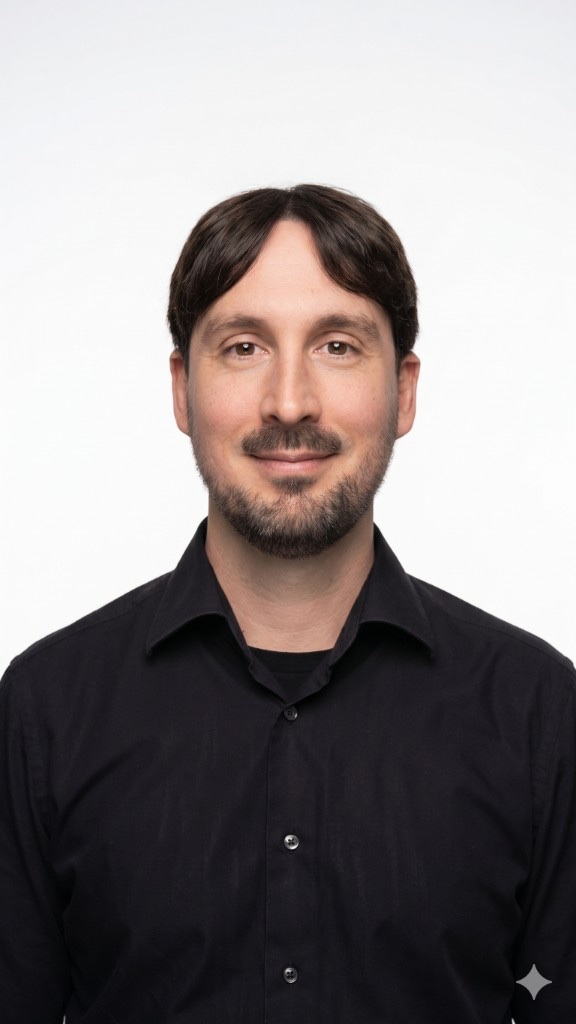
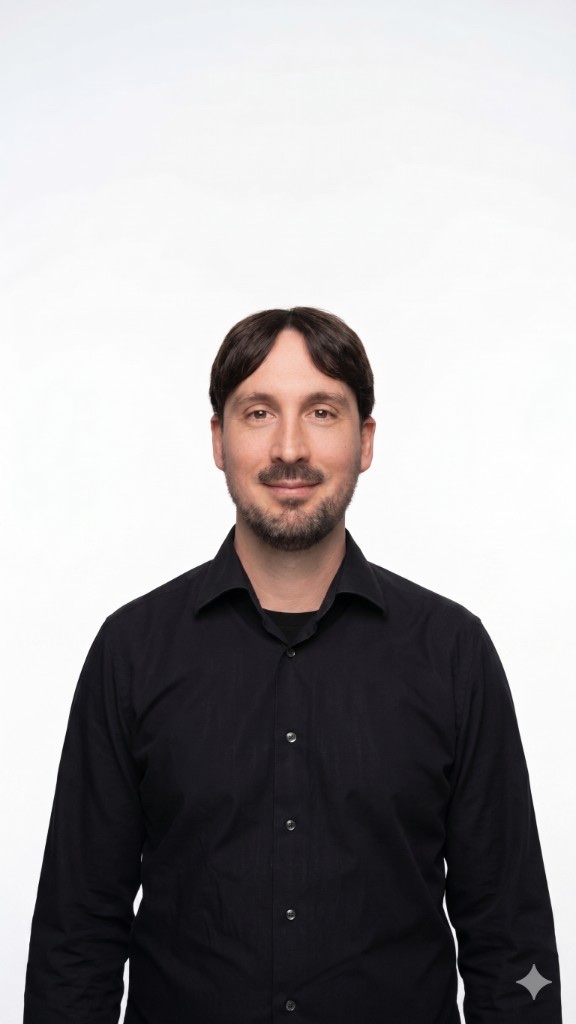
fix: replace Petar photo with wider shot and reposition head

diff --git a/src/data/site.ts b/src/data/site.ts
@@ -141,7 +141,7 @@ export const team: TeamMember[] = [
     role: "Assistent der GL",
     desc: "Unterstützt die Geschäftsleitung mit Übersicht und Tatkraft.",
     image: petarImg,
-    imagePosition: "center 35%",
+    imagePosition: "center 68%",
   },
   {
     name: "Janos Zöldi",
